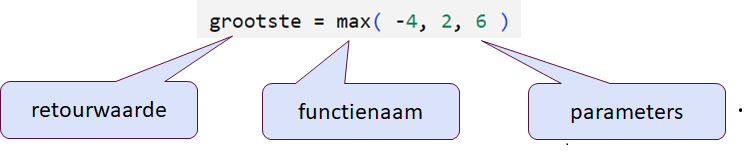
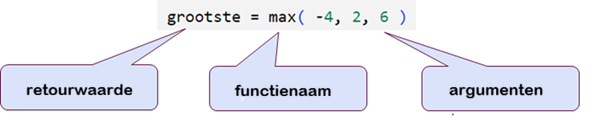
redactie review verwerkt

diff --git a/docs/IA_H5_oplossingen.html b/docs/IA_H5_oplossingen.html
@@ -137,7 +137,7 @@ Met de volgende Afsluitende opdrachten kun je kijken hoe goed je de stof beheers
 <hr>
 
 
-<h3 id="AfOpgave51">Afsluitende opdracht 5.1 Teken lolly met parameters</h3>
+<h3 id="AfOpgave51">Afsluitende opdracht 5.1 Teken lolly met argumenten</h3>
 <pre class="python">
 import turtle
 
@@ -308,7 +308,7 @@ def tekenMuren():
 	turtle.right(90)
 	turtle.forward(150)
 
-#Tekent een rood gevulde dak
+#Tekent een rood gevuld dak
 def tekenDak():
 	turtle.fillcolor("red")
 	turtle.begin_fill()
